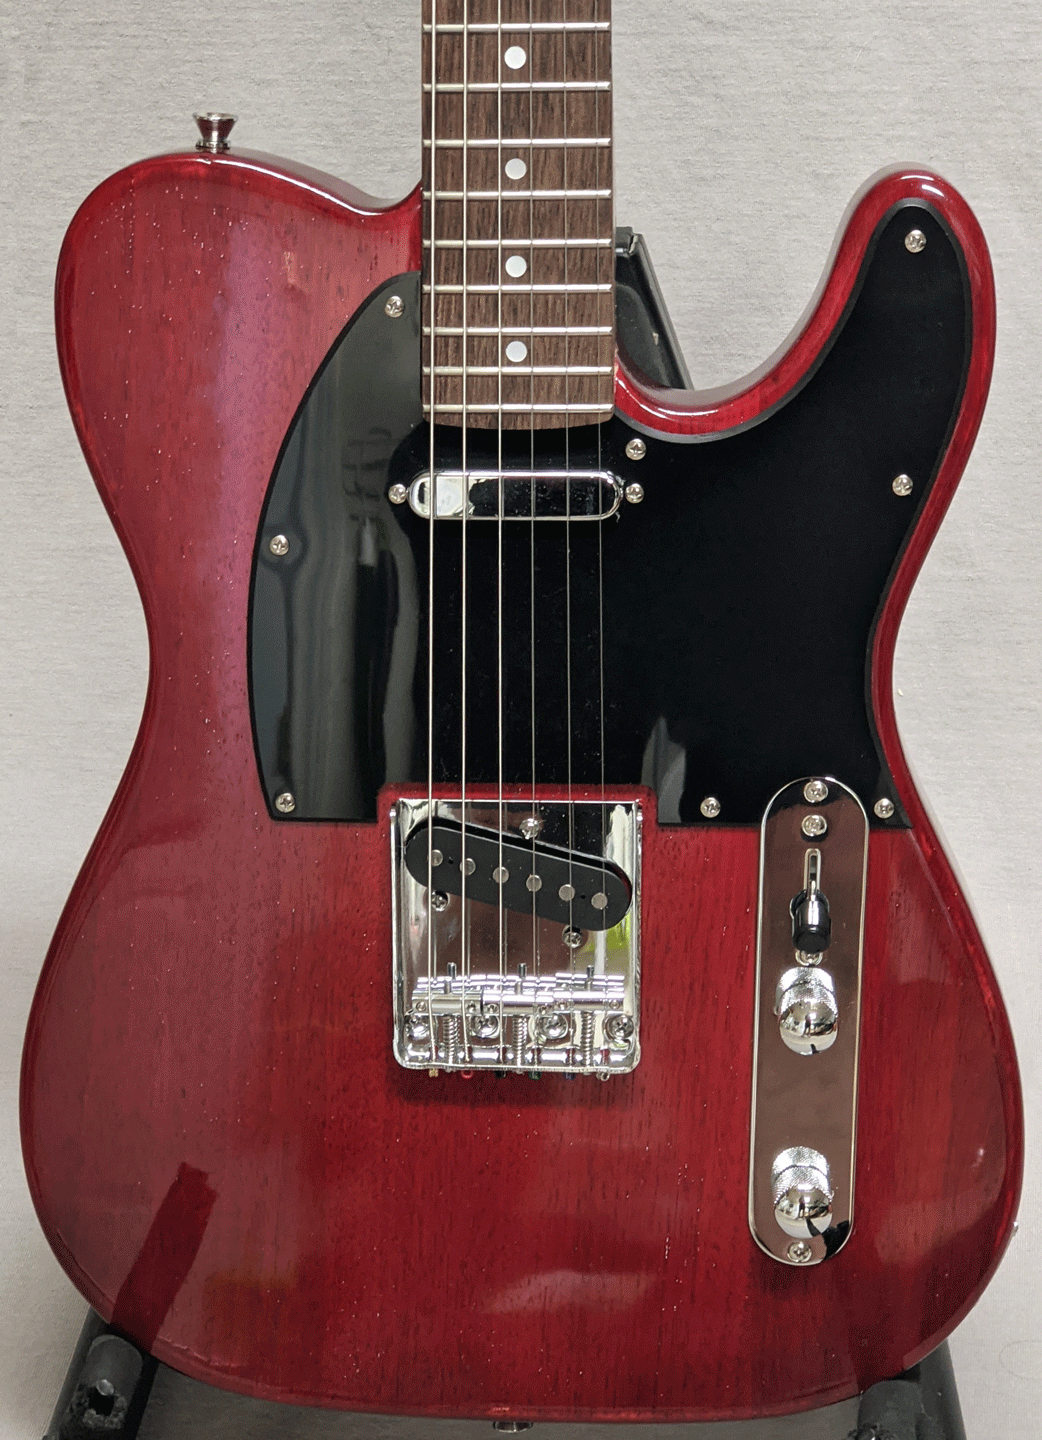
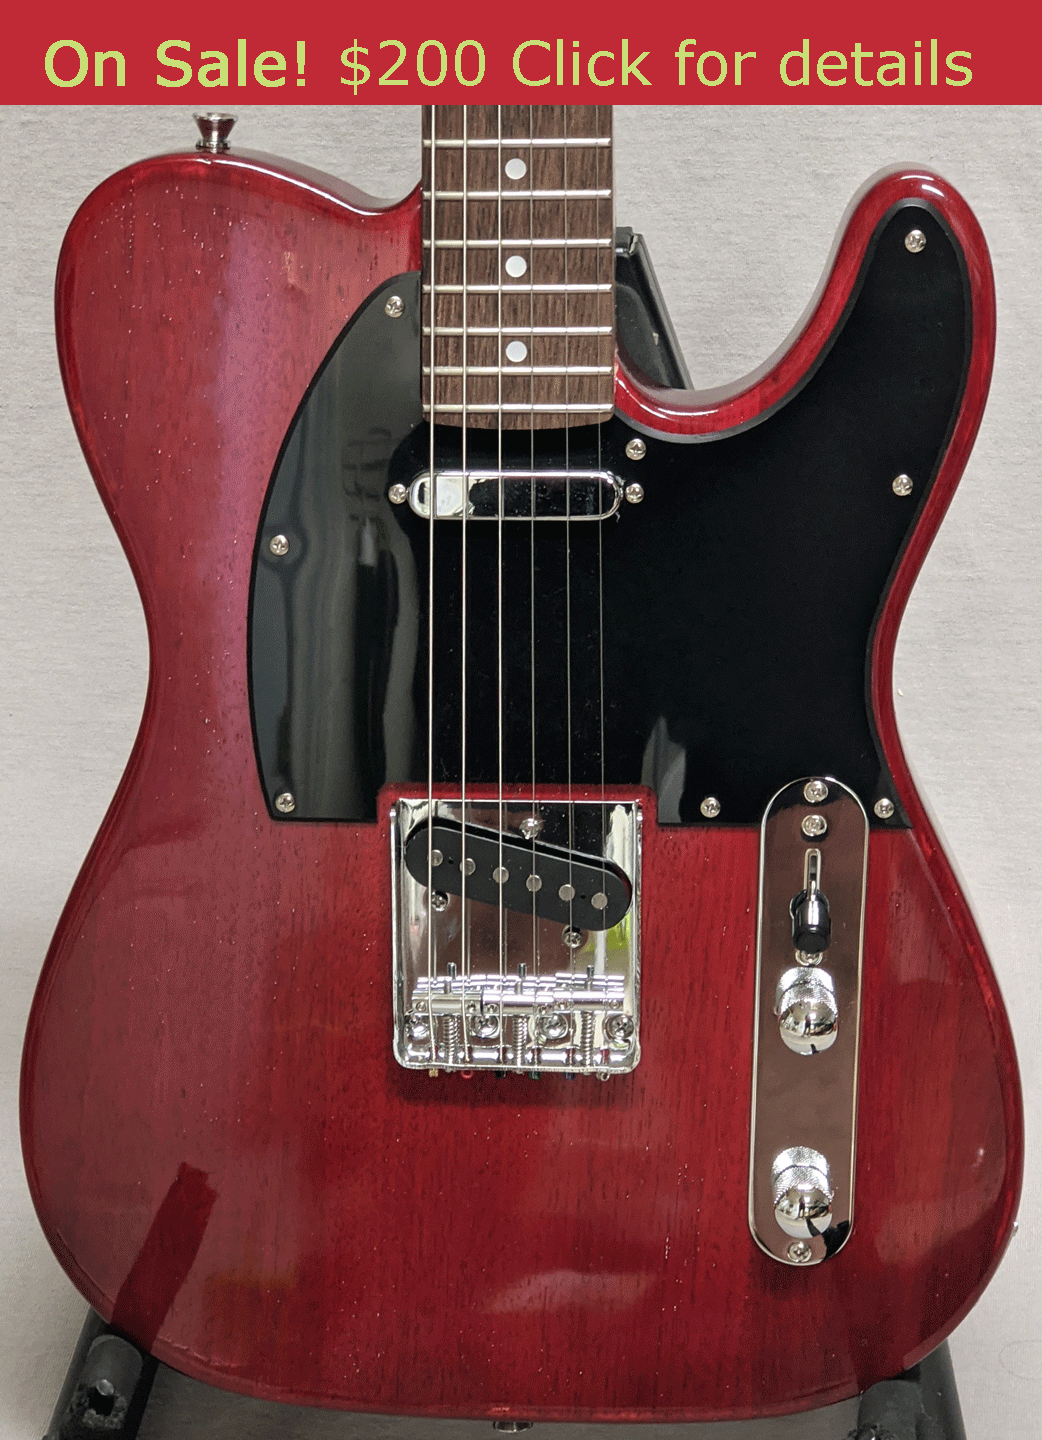
sale updates

Changed region(s): [[0.0, 0.0, 1.0, 0.0938]]

diff --git a/src/pages/index.js b/src/pages/index.js
@@ -41,6 +41,7 @@ const Index = () => {
 
       <h1>Welcome to kerf guitars</h1>
       <h2>Building good guitars for aspiring players.</h2>
+      <p>See the Guitars page for our Annivesary/President's Day/Valentine's Day mashup sale! Save on every guitar.</p>
       <p>
         We build guitars with the player's success in mind. Every note should be as easy to play 
         and sound as accurate as possible. Some would call these "easy play" guitars, but we all 
